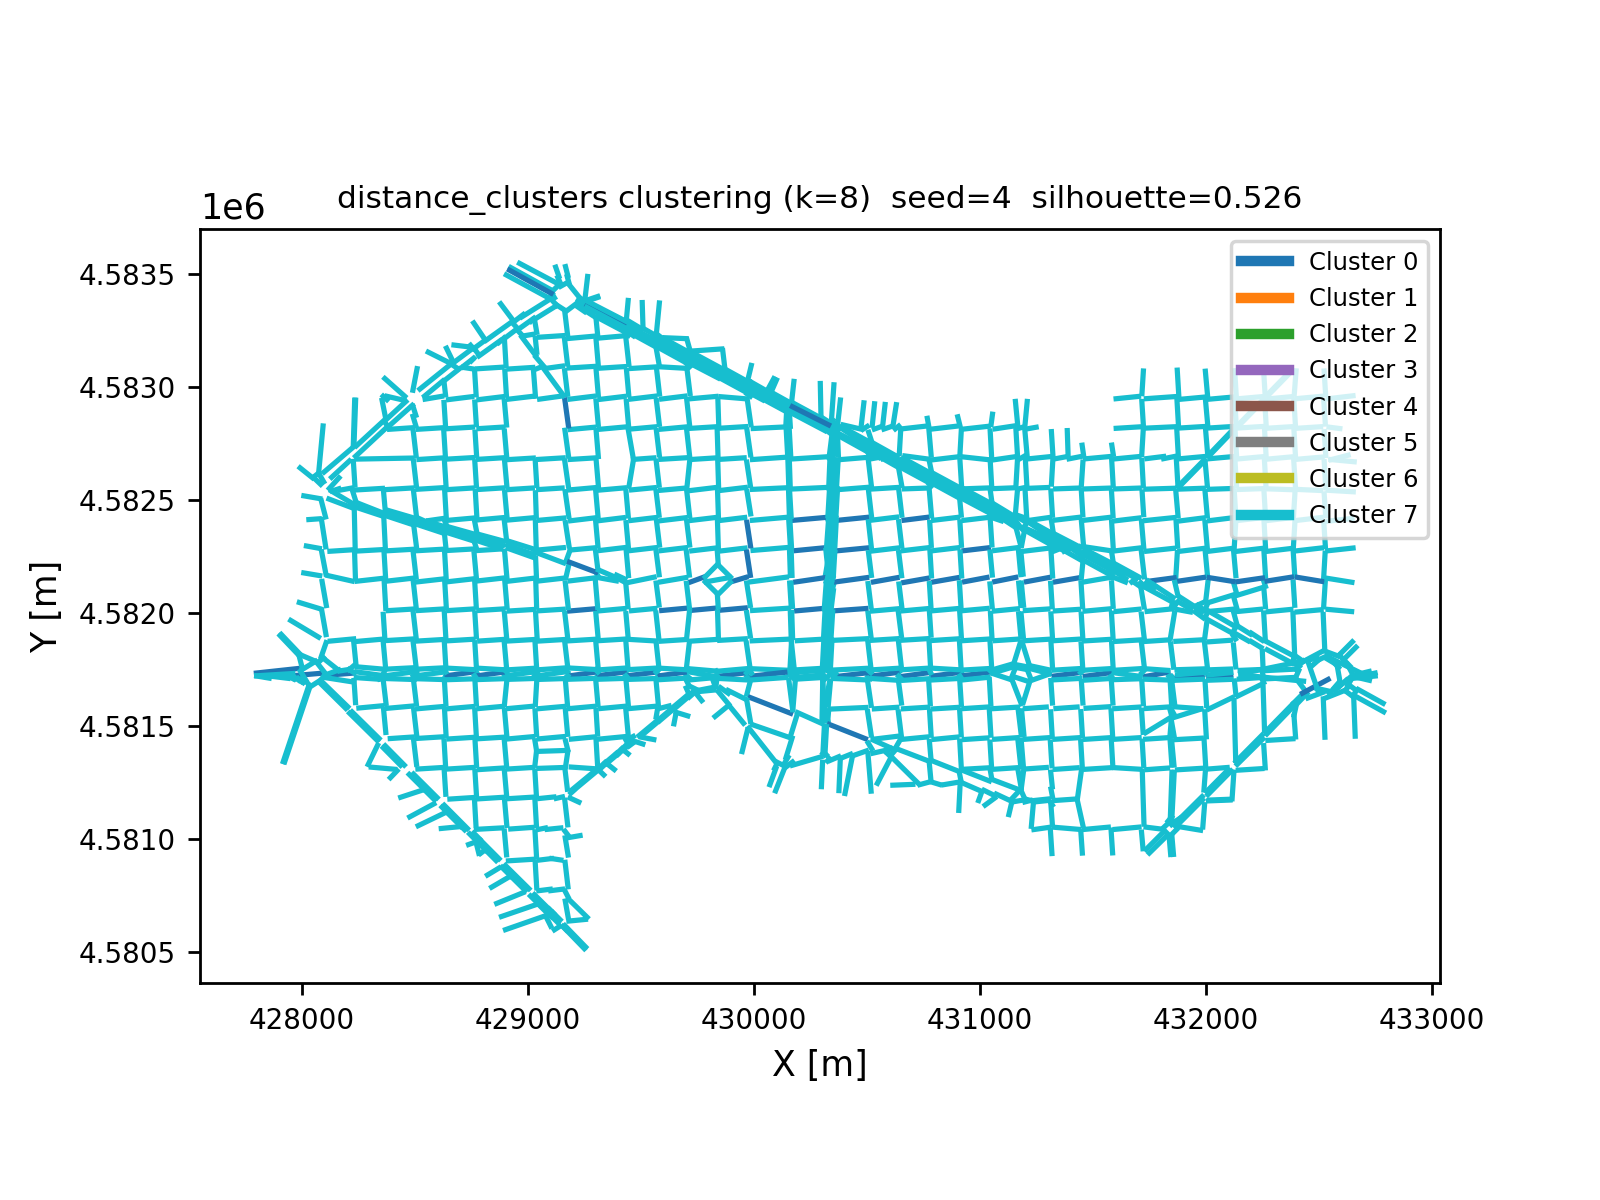
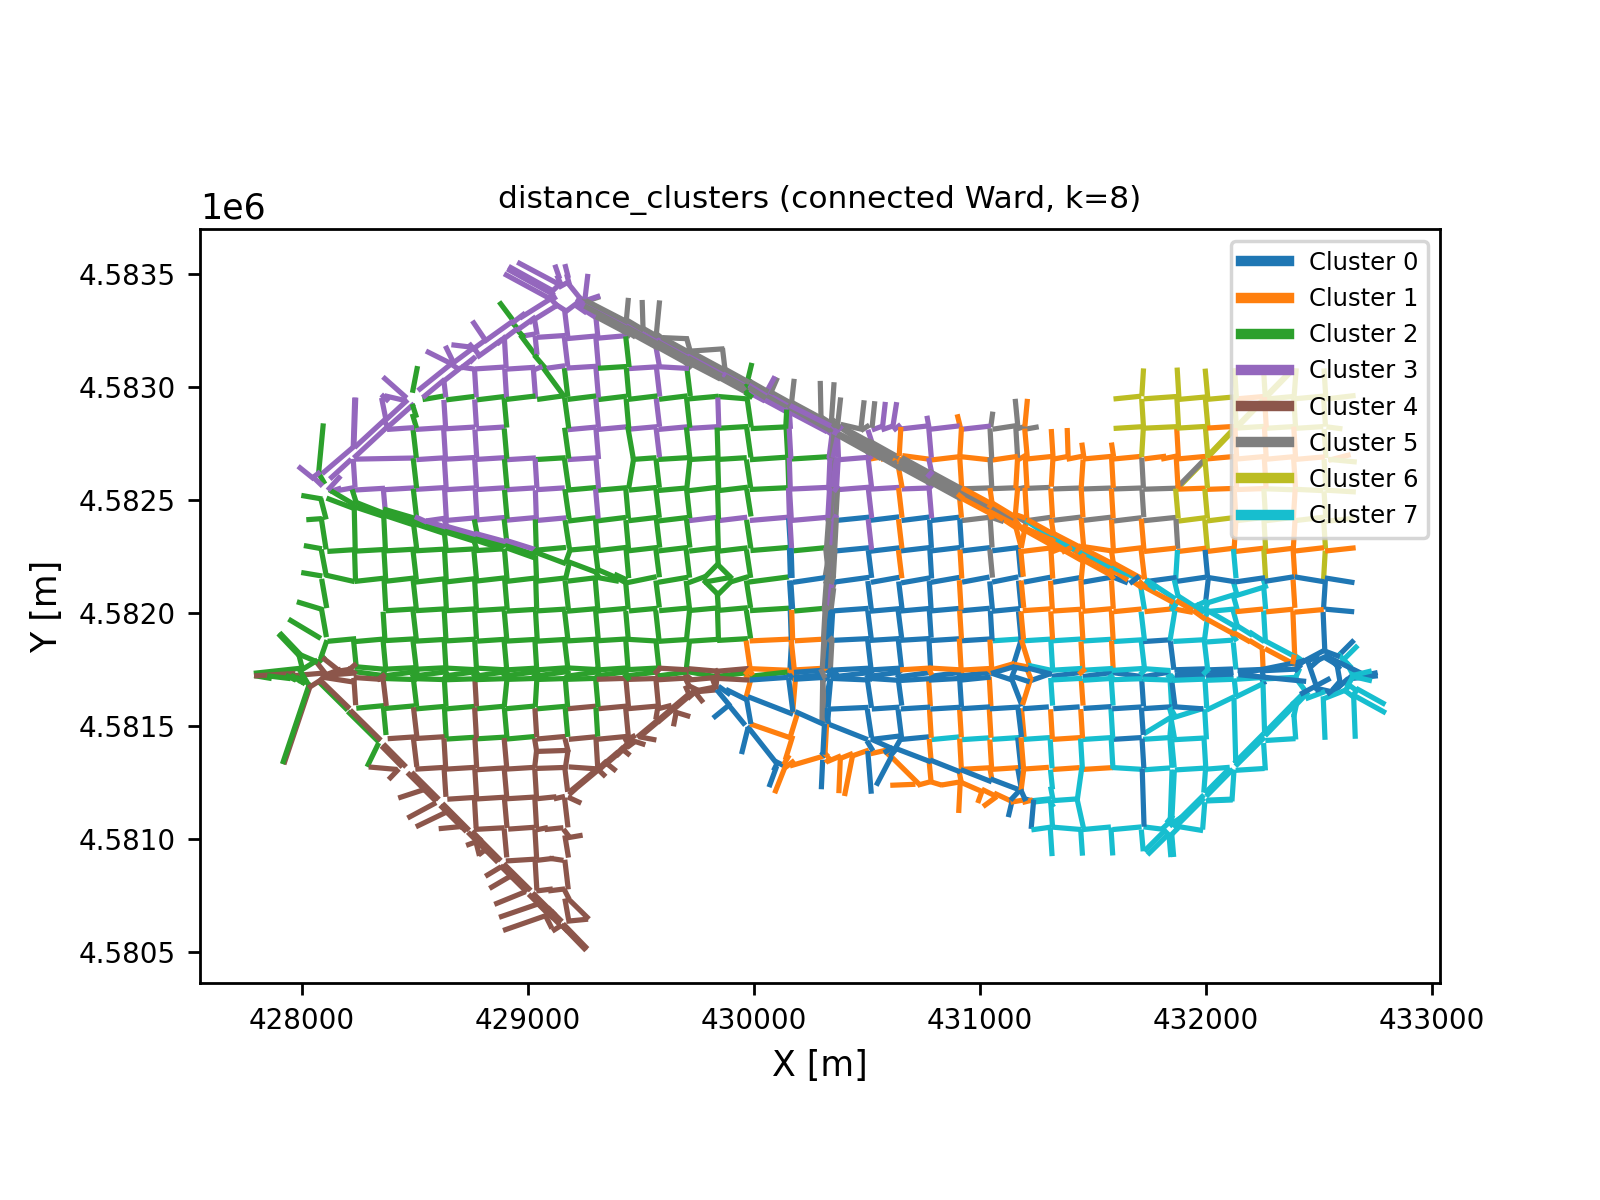
fix clustering of different dist speed and time

Changed region(s): [[0.1562, 0.2158, 0.8438, 0.8017], [0.2188, 0.1542, 0.8125, 0.185]]

diff --git a/main.py b/main.py
@@ -5,13 +5,12 @@ matplotlib.use("Agg")
 import matplotlib.pyplot as plt
 import matplotlib.cm as cm
 import matplotlib.colors as mcolors
-from matplotlib.collections import LineCollection
 import numpy as np
 from DataLoad import DataLoader
 import imageio
 import re
-from sklearn.cluster import KMeans
-from sklearn.metrics import silhouette_score
+from scipy import sparse
+from sklearn.cluster import AgglomerativeClustering
 from sklearn.preprocessing import StandardScaler
 
 ############################# FILES/CLASS INSTANCES #############################
@@ -26,7 +25,7 @@ os.makedirs(localfigure, exist_ok=True)
 os.makedirs(localgif, exist_ok=True)
 
 centroid = pd.read_csv(os.path.join(path, "metadata", "centroid_pos.csv"))
-links = pd.read_csv(os.path.join(path, "metadata", "link_bboxes.csv"))
+links = pd.read_csv(os.path.join(path, "metadata", "link_bboxes.csv")).sort_values("id").reset_index(drop=True)
 connections = pd.read_csv(os.path.join(path, "metadata", "connections.csv"))
 
 polygons = pd.read_json(os.path.join(path, "metadata", "intersec_polygon.json"))
@@ -41,8 +40,8 @@ DL = DataLoader()
 DL.init_graph_structure
 
 # Replace NaN values by 0
-DL._vdist_3min = np.nan_to_num(DL._vdist_3min, nan=0)
-DL._vtime_3min = np.nan_to_num(DL._vtime_3min, nan=0)
+'''DL._vdist_3min = np.nan_to_num(DL._vdist_3min, nan=0)
+DL._vtime_3min = np.nan_to_num(DL._vtime_3min, nan=0)'''
 
 ############################# GENERAL COMMENTS #############################
 # Dl._vdist_3min[simulation number, timestamp, link id]
@@ -277,106 +276,143 @@ fps = 0.5
 
 #gradient_gif(param, param_name, fps)
 
-############################# KMEANS #############################
+############################# CLUSTERING #############################
 os.makedirs(f"figure/clustering", exist_ok = True)
 
+NETWORK_CONNECTIVITY = sparse.csr_matrix(DL.adjacency)
 
-def clustering(n_clusters, random_states, name,feature_type):
+
+def mean_over_sessions(values):
+    valid_counts = np.sum(~np.isnan(values), axis=0)
+    summed = np.nansum(values, axis=0)
+    return np.divide(
+        summed,
+        valid_counts,
+        out=np.full(summed.shape, np.nan, dtype=float),
+        where=valid_counts > 0,
+    )
+
+
+def fill_profile_nans(profile):
+    filled = profile.copy()
+    time_medians = np.nanmedian(filled, axis=0)
+    time_medians = np.where(np.isnan(time_medians), 0.0, time_medians)
+    nan_rows, nan_cols = np.where(np.isnan(filled))
+    filled[nan_rows, nan_cols] = time_medians[nan_cols]
+    return filled
+
+
+def rowwise_zscore(profile):
+    mean = profile.mean(axis=1, keepdims=True)
+    std = profile.std(axis=1, keepdims=True)
+    std[std == 0] = 1.0
+    return (profile - mean) / std
+
+
+def profile_components(profile, n_components=3):
+    centered = profile - profile.mean(axis=0, keepdims=True)
+    u, s, _ = np.linalg.svd(centered, full_matrices=False)
+    n_comp = min(n_components, centered.shape[0], centered.shape[1])
+    return u[:, :n_comp] * s[:n_comp]
+
+
+def temporal_cluster_features(profile, peak_mode, spatial_weight=1.2):
+    filled = fill_profile_nans(profile)
+    peak_idx = np.argmin(filled, axis=1) if peak_mode == "min" else np.argmax(filled, axis=1)
+    peak_time = peak_idx / max(filled.shape[1] - 1, 1)
+
+    dynamic = np.column_stack([
+        filled.mean(axis=1),
+        filled.std(axis=1),
+        peak_time,
+        profile_components(rowwise_zscore(filled), n_components=3),
+    ])
+    spatial_features = DL.node_coordinates.astype(float)
+    return np.hstack([
+        StandardScaler().fit_transform(dynamic),
+        StandardScaler().fit_transform(spatial_features) * spatial_weight,
+    ])
+
+
+def build_cluster_features(feature_type):
+    vdist = DL._vdist_3min.astype(float)
+    vtime = DL._vtime_3min.astype(float)
+
+    if feature_type == "geometric":
+        geometric = np.column_stack([
+            DL.node_coordinates[:, 0],
+            DL.node_coordinates[:, 1],
+            links["length"].to_numpy(dtype=float),
+            links["num_lanes"].to_numpy(dtype=float),
+        ])
+        return StandardScaler().fit_transform(geometric)
+
+    if feature_type == "speed":
+        speed = np.divide(
+            vdist,
+            vtime,
+            out=np.full(vdist.shape, np.nan, dtype=float),
+            where=vtime != 0,
+        )
+        speed_profile = mean_over_sessions(speed).T
+        return temporal_cluster_features(speed_profile, peak_mode="min")
+
+    if feature_type == "distance":
+        distance = np.where(vdist != 0, vdist, np.nan)
+        distance_profile = np.log1p(mean_over_sessions(distance)).T
+        return temporal_cluster_features(distance_profile, peak_mode="max")
+
+    if feature_type == "time":
+        time_profile = np.log1p(mean_over_sessions(np.where(vtime != 0, vtime, np.nan))).T
+        return temporal_cluster_features(time_profile, peak_mode="max")
+
+    raise ValueError(f"Unknown feature_type: {feature_type}")
+
+
+def clustering(n_clusters, name, feature_type):
     n_clus = n_clusters
     folder = f"figure/clustering/{name}"
     os.makedirs(folder, exist_ok=True)
 
-    best_score, best_labels = -1, None
-    for i in random_states:
-        i = int(i)
-        kmeans = KMeans(n_clusters=n_clus, random_state=i, n_init=10)
-        
-        
-        vdist = DL._vdist_3min[0].mean(axis=0)
-        vtime = DL._vtime_3min[0].mean(axis=0)
-        # Avoid division by zero
-        speed = np.divide(vdist, vtime, out=np.zeros_like(vdist), where=vtime!=0)
+    X = build_cluster_features(feature_type)
+    labels = AgglomerativeClustering(
+        n_clusters=n_clus,
+        linkage="ward",
+        connectivity=NETWORK_CONNECTIVITY,
+    ).fit_predict(X)
 
-        # Choose clustering features
-        if feature_type == "geometric":
-            X = pd.DataFrame({
-                "x_c": (links["from_x"] + links["to_x"]) / 2,
-                "y_c": (links["from_y"] + links["to_y"]) / 2,
-                "length": links["length"],
-                "num_lanes": links["num_lanes"],
-            })
+    plot_links = links.copy()
+    plot_links["cluster"] = labels
+    cluster_sizes = np.bincount(labels, minlength=n_clus)
+    print(f"{name}: connected Ward clusters, size range {cluster_sizes.min()}-{cluster_sizes.max()}")
 
-        elif feature_type == "speed":
-            speed_matrix = np.divide(
-                DL._vdist_3min, DL._vtime_3min,
-                out=np.zeros_like(DL._vdist_3min), where=DL._vtime_3min != 0
-            )                                             # shape (S, T, N)
-            speed_all = np.nanmean(speed_matrix, axis=0)  # (T, N) all sessions
-            X = pd.DataFrame({
-                "mean_speed": np.nanmean(speed_all, axis=0),
-                "std_speed":  np.nanstd(speed_all,  axis=0),
-                "min_speed":  np.nanmin(speed_all,  axis=0),
-                "peak_time":  np.nanargmax(-speed_all, axis=0) / speed_all.shape[0],
-            })
-
-        elif feature_type == "distance":
-            vdist_all = np.nanmean(DL._vdist_3min, axis=0)  # (T, N) all sessions
-            X = pd.DataFrame({
-                "mean_vdist": np.nanmean(vdist_all, axis=0),
-                "std_vdist":  np.nanstd(vdist_all,  axis=0),
-                "max_vdist":  np.nanmax(vdist_all,  axis=0),
-            })
-
-        elif feature_type == "time":
-            vtime_all = np.nanmean(DL._vtime_3min, axis=0)  # (T, N) all sessions
-            X = pd.DataFrame({
-                "mean_vtime": np.nanmean(vtime_all, axis=0),
-                "std_vtime":  np.nanstd(vtime_all,  axis=0),
-                "max_vtime":  np.nanmax(vtime_all,  axis=0),
-            })
-            
-        scaler = StandardScaler()
-        X = scaler.fit_transform(X)
-
-        labels = kmeans.fit_predict(X)
-        score  = silhouette_score(X, labels)
-        if score > best_score:
-            best_score, best_seed, best_labels = score, i, labels
-
-    links["cluster"] = best_labels
-    print(f"Best seed: {best_seed}  |  Silhouette: {best_score:.3f}")
-
-    cmap_discrete = plt.cm.get_cmap("tab10", n_clus)
-
+    cmap_discrete = matplotlib.colormaps.get_cmap("tab10").resampled(n_clus)
+    cluster_colors = cmap_discrete(np.linspace(0, 1, n_clus))
     fig, ax = plt.subplots(dpi=250)
     ax.set_aspect("equal")
-    ax.set_title(f"{name} clustering (k={n_clus})  seed={best_seed}  silhouette={best_score:.3f}", fontsize=9)
+    ax.set_title(f"{name} (connected Ward, k={n_clus})", fontsize=9)
     ax.set_xlabel("X [m]", fontsize=10)
     ax.set_ylabel("Y [m]", fontsize=10)
     ax.tick_params(axis='both', labelsize=8)
 
-    for j, row in links.iterrows():
+    for _, row in plot_links.iterrows():
         x, y = sublink(row)
-        color = cmap_discrete(row["cluster"])   # ← row is defined here, inside the loop
+        color = cluster_colors[int(row["cluster"])]
         ax.plot(x, y, c=color)
 
-    # ← legend goes here, AFTER the loop, BEFORE savefig
     handles = [
-        plt.Line2D([0], [0], color=cmap_discrete(k), lw=3, label=f"Cluster {k}")
+        plt.Line2D([0], [0], color=cluster_colors[k], lw=3, label=f"Cluster {k}")
         for k in range(n_clus)
     ]
     ax.legend(handles=handles, fontsize=7, loc="upper right")
 
     fig.savefig(f"{folder}/{name}_best.png")
     plt.close(fig)
-
     print(f"Saved → {folder}/{name}_best.png")
 
-
 n_clus = 8
-seeds = np.linspace(0,9,10)
 
-clustering(n_clus, seeds, "geometric_clusters", "geometric")
-clustering(n_clus, seeds, "distance_clusters", "distance")
-clustering(n_clus, seeds, "time_clusters", "time")
-clustering(n_clus, seeds, "speed_clusters", "speed")
+clustering(n_clus, "geometric_clusters", "geometric")
+clustering(n_clus, "distance_clusters", "distance")
+clustering(n_clus, "time_clusters", "time")
+clustering(n_clus, "speed_clusters", "speed")
